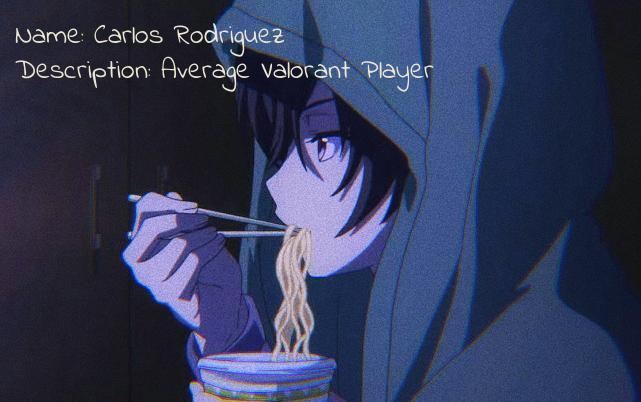
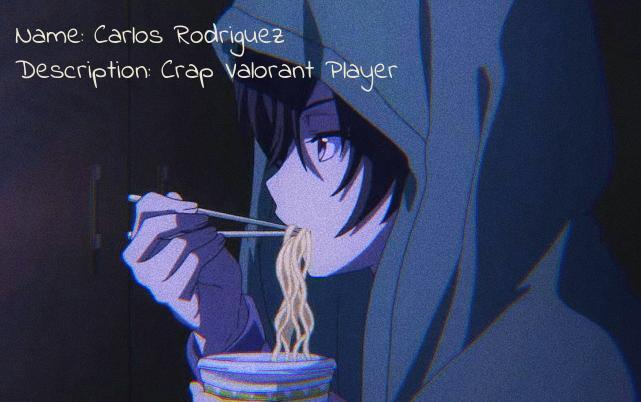
Created profile functions

Changed region(s): [[0.2496, 0.1194, 0.6864, 0.2388]]

diff --git a/main.py b/main.py
@@ -1,9 +1,9 @@
-#===================================================#
-#=  Project Tomori                                 =#
-#=  Bot for personal use the zerotwo alternative   =#
-#=  Created by Carlos Rodriguez                    =#
-#=  Copyright reserved Lubris                      =#
-#===================================================#
+#   ==========================================================  #
+#   ===== Project Tomori                                 =====  #
+#   ===== Bot for personal use the zerotwo alternative   =====  #
+#   ===== Created by Carlos Rodriguez                    =====  #
+#   ===== Copyright reserved Lubris                      =====  #
+#   ==========================================================  #
 
 #   ===== Discord Setup =====   #
 import discord
@@ -51,14 +51,8 @@ for x in create_cursor:
 #   ===== Delete Table =====    #
 # create_cursor.execute("DROP TABLE profile_card_users")
 
-#   ===== Profile Insert into Database ===== #
-def profile_data(usr_id, name, birth, desc, img_id):
-    sql_cd = "INSERT INTO profile_card_users (usr_id, name, birth, description, cus_img_url) VALUES (%s, %s, %s, %s, %s)"
-    sql_values = (usr_id, name, birth, desc, img_id)
-    create_cursor.execute(sql_cd, sql_values)
-    mariadb_connection.commit()
 
-print(create_cursor.rowcount)
+
 
 #   ===== Testing Some random Shanonigans ===== #
 # sql_statement = "SELECT * FROM profile_card_users WHERE usr_id = %s"
@@ -70,6 +64,52 @@ print(create_cursor.rowcount)
 #
 # print(namo)
 
+
+#   ===========================   #
+#   ===== Profile backend =====   #
+#   ===========================   #
+
+#   ===== Profile Insert into Database ===== #
+def profile_data(usr_id, name, birth, desc, img_id):
+    sql_cd = "INSERT INTO profile_card_users (usr_id, name, birth, description, cus_img_url) VALUES (%s, %s, %s, %s, %s)"
+    sql_values = (usr_id, name, birth, desc, img_id)
+    create_cursor.execute(sql_cd, sql_values)
+    mariadb_connection.commit()
+
+#   ===== Profile Name Update =====   #
+def profile_data_name(usr_id, name):
+    sql_cd = "UPDATE profile_card_users SET name = %s WHERE usr_id = %s"
+    sql_values = (name, usr_id)
+    create_cursor.execute(sql_cd, sql_values)
+    mariadb_connection.commit()
+
+#   ===== Profile Birth Update =====   #
+def profile_data_birth(usr_id, birth):
+    sql_cd = "UPDATE profile_card_users SET birth = %s WHERE usr_id = %s"
+    sql_values = (birth, usr_id)
+    create_cursor.execute(sql_cd, sql_values)
+    mariadb_connection.commit()
+
+#   ===== Profile Description Update =====   #
+def profile_data_desc(usr_id, desc):
+    sql_cd = "UPDATE profile_card_users SET description = %s WHERE usr_id = %s"
+    sql_values = (desc, usr_id)
+    create_cursor.execute(sql_cd, sql_values)
+    mariadb_connection.commit()
+
+#   ===== Profile Profile Background Update =====   #
+def profile_data_pbg(usr_id, pbg):
+    sql_cd = "UPDATE profile_card_users SET cus_img_url = %s WHERE usr_id = %s"
+    sql_values = (pbg, usr_id)
+    create_cursor.execute(sql_cd, sql_values)
+    mariadb_connection.commit()
+
+print(create_cursor.rowcount)
+
+
+#   ============================    #
+#   ===== Profile Frontend =====    #
+#   ============================    #
 
 # ===== Profile Drawing Functions =====  #
 def profile_create(usr):
@@ -142,6 +182,9 @@ embed.set_image(url="https://c4.wallpaperflare.com/wallpaper/771/807/811/anime-a
 embed.add_field(name="Field 1 Title", value="This is the value for field 1. This is NOT an inline field.", inline=False)
 embed.add_field(name="Field 2 Title", value="This is the value for field 1. This is NOT an inline field.", inline=False)
 
+#   ===== Developement Variables =====  #
+dev_server_id = 944147234562400256
+
 
 #   ===== Set up =====  #
 class aclient(discord.Client):
@@ -152,7 +195,7 @@ class aclient(discord.Client):
     async def on_ready(self):
         await self.wait_until_ready()
         if not self.synced: #check if slash commands have been synced
-            await tree.sync(guild = discord.Object(id=944147234562400256)) #guild specific: leave blank if global (global registration can take 1-24 hours)
+            await tree.sync(guild = discord.Object(id=dev_server_id)) #guild specific: leave blank if global (global registration can take 1-24 hours)
             self.synced = True
         print(f"We have logged in as {self.user}.")
 
@@ -162,25 +205,30 @@ tree = app_commands.CommandTree(client)
 #   ==========================  #
 #   ===== Slash Commands =====  #
 #   ==========================  #
-@tree.command(guild = discord.Object(id=944147234562400256), name = 'embed', description='testing') #guild specific slash command
-async def slash2(interaction: discord.Interaction):
-    await interaction.response.send_message(f"I am working ! I was made with Discord.py!", ephemeral = False, embed=embed)
 
-@tree.command(guild = discord.Object(id=944147234562400256), name = 'hi', description='testing') #guild specific slash command
+#   ===== Slash command template =====  #
+@tree.command(guild = discord.Object(id=dev_server_id), name = 'hi', description='testing') #guild specific slash command
 async def slash2(interaction: discord.Interaction):
     await interaction.response.send_message(f"I am working! I was made with Discord.py!", ephemeral = False)
 
-@tree.command(guild = discord.Object(id=944147234562400256), name = 'profile', description='A profile card of who you are accross all servers with this bot in it.') #guild specific slash command
+#   =====================================   #
+#   ===== Profile Command sequences =====   #
+#   =====================================   #
+
+@tree.command(guild = discord.Object(id=dev_server_id), name = 'embed', description='testing out the embed') #guild specific slash command
+async def slash2(interaction: discord.Interaction):
+    await interaction.response.send_message(f"I am working ! I was made with Discord.py!", ephemeral = False, embed=embed)
+
+@tree.command(guild = discord.Object(id=dev_server_id), name = 'profile', description='A profile card of who you are accross all servers with this bot in it.') #guild specific slash command
 async def slash2(interaction: discord.Interaction):
     user = interaction.user.id
     profile_create(user)
     await interaction.response.send_message(ephemeral = False, file=discord.File(f"completed_profiles/{user}.jpg"))
 
-@tree.command(guild = discord.Object(id=944147234562400256), name = 'create_profile', description='creates a profile card. Birth is in YY/MM/DD format. Paste a URL in img_id (optional)') #guild specific slash command
+@tree.command(guild = discord.Object(id=dev_server_id), name = 'create_profile', description='creates a profile card. Birth is in YY/MM/DD format. Paste a URL in img_id (optional)') #guild specific slash command
 async def slash2(interaction: discord.Interaction, name:str, description:str, birth:str, img_id:str):
     user_id = interaction.user.id
     # profile_name(user_id, name)
-
     # profile_description_text(user_id, description)
     user_id = (user_id,)
     sql_statement = "SELECT usr_id FROM profile_card_users WHERE usr_id = %s"
@@ -193,9 +241,37 @@ async def slash2(interaction: discord.Interaction, name:str, description:str, bi
         profile_data(user_id, name, birth, description, img_id)
         await interaction.response.send_message(f"Success! created you profile!", ephemeral=False)
 
+#   ===== Profile Updates ===== #
+@tree.command(guild = discord.Object(id=dev_server_id), name = 'update_profile_name', description='updates your profile name!') #guild specific slash command
+async def slash2(interaction: discord.Interaction, name:str):
+    user_id = interaction.user.id
+    profile_data_name(user_id, name)
+    await interaction.response.send_message(f"Success! Changed name", ephemeral = False)
 
+@tree.command(guild = discord.Object(id=dev_server_id), name = 'update_profile_birth', description='updates your profile birth!') #guild specific slash command
+async def slash2(interaction: discord.Interaction, birth:str):
+    user_id = interaction.user.id
+    profile_data_birth(user_id, birth)
+    await interaction.response.send_message(f"Success! Changed birth", ephemeral = False)
+
+@tree.command(guild = discord.Object(id=dev_server_id), name = 'update_profile_desc', description='updates your profile description!') #guild specific slash command
+async def slash2(interaction: discord.Interaction, description:str):
+    user_id = interaction.user.id
+    profile_data_desc(user_id, description)
+    await interaction.response.send_message(f"Success! Changed description", ephemeral = False)
+
+@tree.command(guild = discord.Object(id=dev_server_id), name = 'update_profile_background', description='updates your profile background!') #guild specific slash command
+async def slash2(interaction: discord.Interaction, backgroud_url:str):
+    user_id = interaction.user.id
+    profile_data_pbg(user_id, backgroud_url)
+    await interaction.response.send_message(f"Success! Changed background", ephemeral = False)
+
+
+#   ==========================  #
 #   ===== Music Commands =====  #
-@tree.command(guild = discord.Object(id=944147234562400256), name = 'play', description='testing') #guild specific slash command 944147234562400256
+#   ==========================  #
+
+@tree.command(guild = discord.Object(id=dev_server_id), name = 'play', description='testing') #guild specific slash command 944147234562400256
 async def slash2(interaction: discord.Interaction, url:str):
     try:
         voice_client = await interaction.user.voice.channel.connect()
@@ -217,7 +293,7 @@ async def slash2(interaction: discord.Interaction, url:str):
         print(err)
     await interaction.response.send_message(f"I am working! I was made with Discord.py!", ephemeral = False)
 
-@tree.command(guild = discord.Object(id=944147234562400256), name = 'pause', description='testing') #guild specific slash command 944147234562400256
+@tree.command(guild = discord.Object(id=dev_server_id), name = 'pause', description='testing') #guild specific slash command 944147234562400256
 async def slash2(interaction: discord.Interaction):
     try:
         voice_clients[interaction.user.guild.id].pause()
@@ -225,7 +301,7 @@ async def slash2(interaction: discord.Interaction):
         print(err)
     await interaction.response.send_message(f"I am working! I was made with Discord.py!", ephemeral = False)
 
-@tree.command(guild=discord.Object(id=944147234562400256), name='resume',description='testing')  # guild specific slash command
+@tree.command(guild=discord.Object(id=dev_server_id), name='resume',description='testing')  # guild specific slash command
 async def slash2(interaction: discord.Interaction):
     try:
         voice_clients[interaction.user.guild.id].resume()
@@ -233,7 +309,7 @@ async def slash2(interaction: discord.Interaction):
         print(err)
     await interaction.response.send_message(f"I am working! I was made with Discord.py!", ephemeral=False)
 
-@tree.command(guild = discord.Object(id=944147234562400256), name = 'stop', description='testing') #guild specific slash command
+@tree.command(guild = discord.Object(id=dev_server_id), name = 'stop', description='testing') #guild specific slash command
 async def slash2(interaction: discord.Interaction):
     try:
         voice_clients[interaction.user.guild.id].stop()
